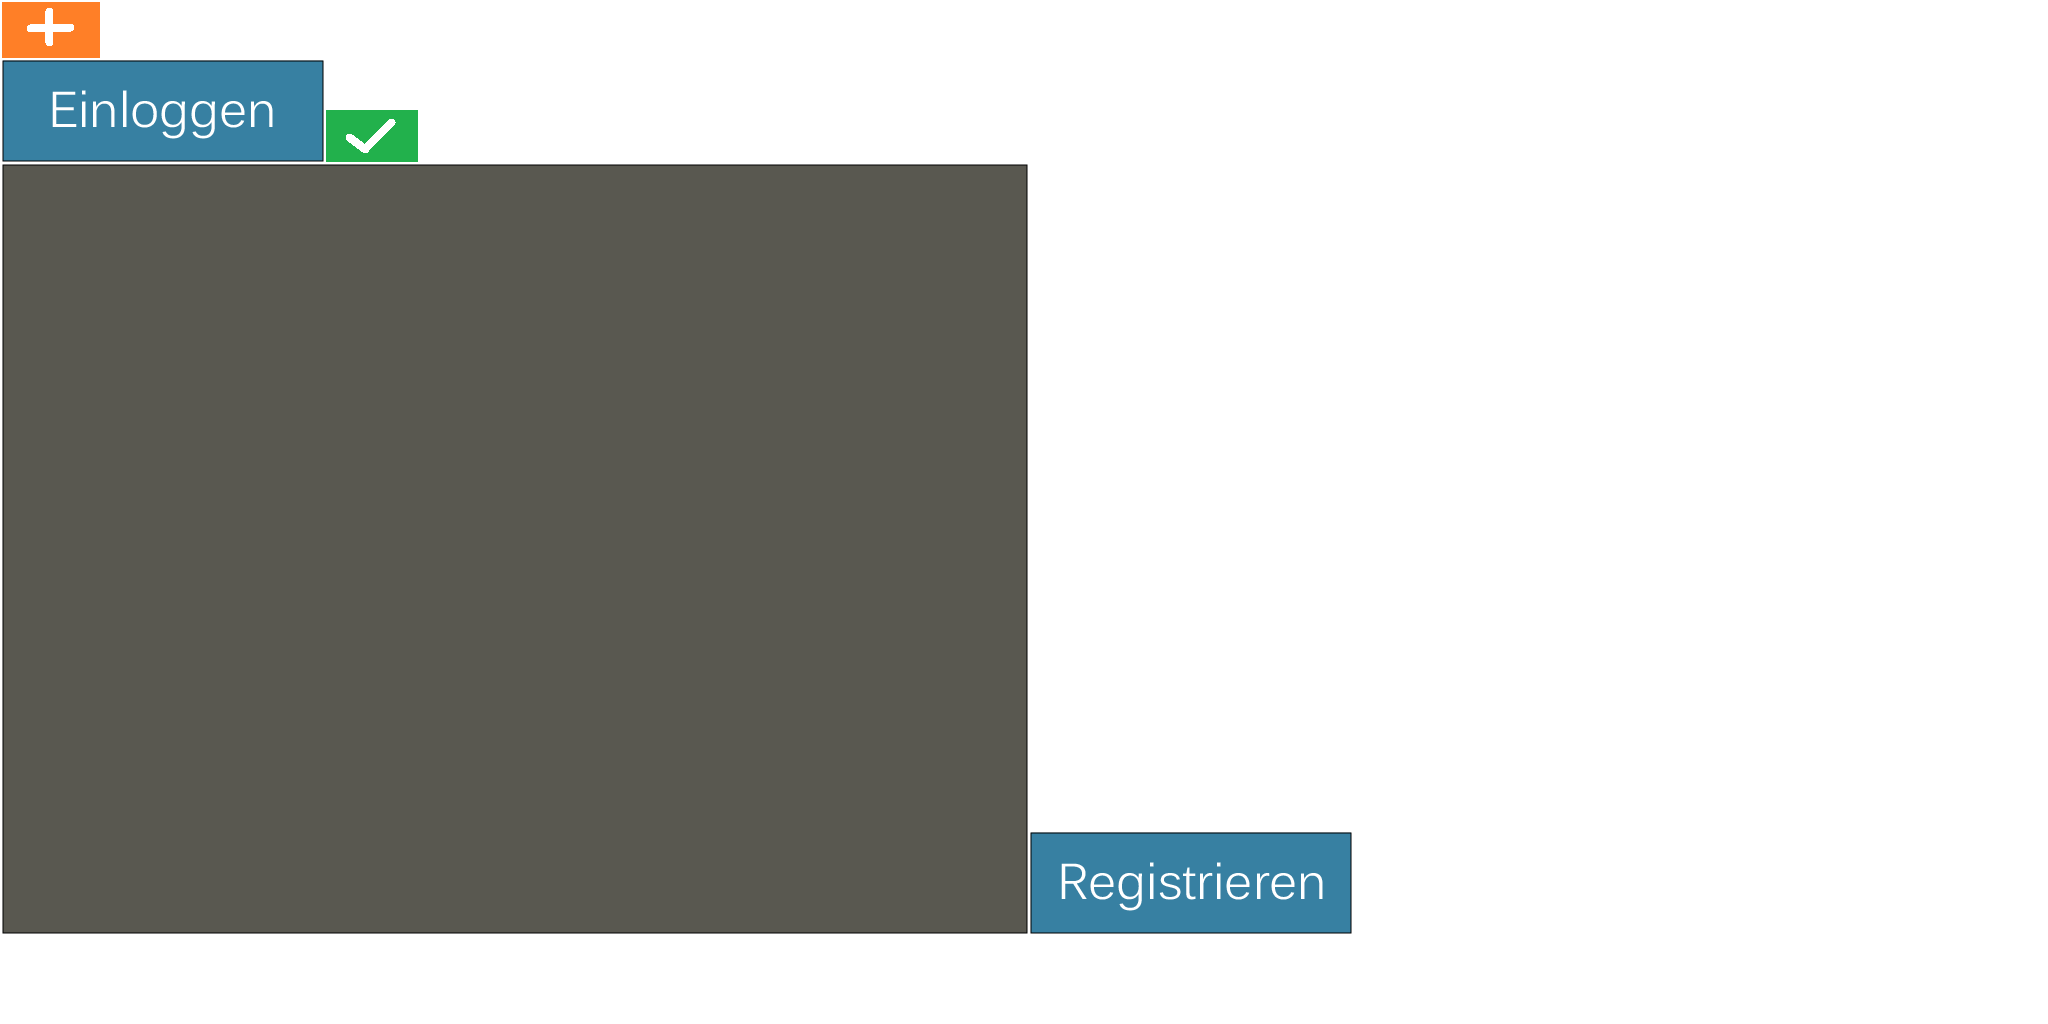
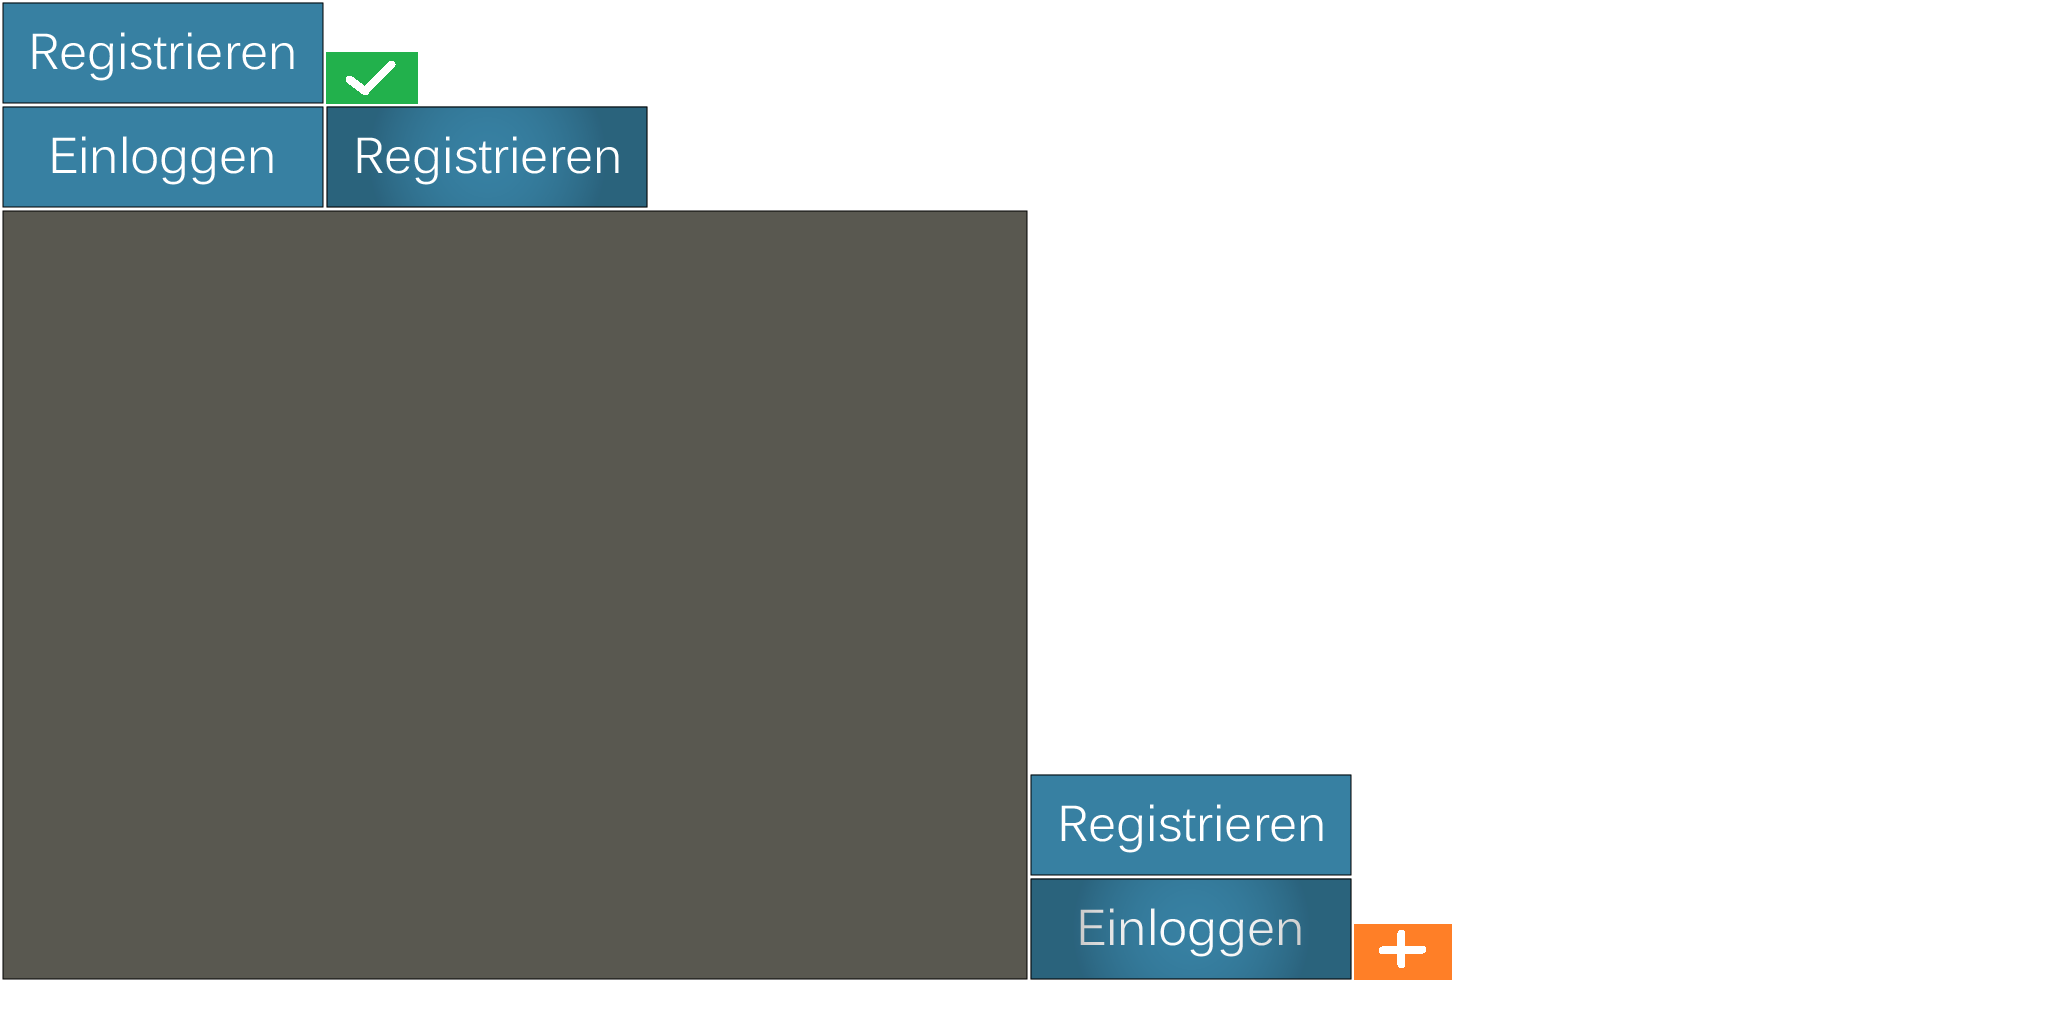
Added MenuScene (Overlap2D) Added MenuStage & load MenuScene Added Click Listener to Buttons

Changed region(s): [[0.0, 0.75, 0.7188, 0.9688], [0.0, 0.0, 0.5, 0.2188]]

diff --git a/src/Learn2Quiz/learn2quiz/core/src/main/java/de/fhkoeln/gm/eis/ss15/learn2quiz/core/MenuStage.java b/src/Learn2Quiz/learn2quiz/core/src/main/java/de/fhkoeln/gm/eis/ss15/learn2quiz/core/MenuStage.java
@@ -1,0 +1,43 @@
+package de.fhkoeln.gm.eis.ss15.learn2quiz.core;
+
+import com.badlogic.gdx.scenes.scene2d.InputEvent;
+import com.badlogic.gdx.scenes.scene2d.Stage;
+import com.badlogic.gdx.scenes.scene2d.utils.ClickListener;
+import com.uwsoft.editor.renderer.SceneLoader;
+import com.uwsoft.editor.renderer.script.SimpleButtonScript;
+
+public class MenuStage extends Stage {
+	
+	private SceneLoader sl;
+	
+    public MenuStage(final GameStage myGameStage) {
+ 
+        //Creating a scene loader and passing it a resource manager of game stage
+        this.sl = new SceneLoader(myGameStage.rm);
+ 
+        // loading UI scene
+        sl.loadScene("MenuScene");
+ 
+        // adding it's root composite item to the stage
+        addActor(sl.getRoot());
+ 
+        // Creating restart button, and adding a click listener to it
+        SimpleButtonScript btnEinloggen = SimpleButtonScript.selfInit(sl.getRoot().getCompositeById("btnEinloggen"));
+        btnEinloggen.addListener(new ClickListener() {
+            public void clicked (InputEvent event, float x, float y) {
+                //restarting game when clicked
+                //gameStage.restart();
+            	System.out.println("Click: Einloggen");
+            }
+        });
+        
+        SimpleButtonScript btnRegistrieren = SimpleButtonScript.selfInit(sl.getRoot().getCompositeById("btnRegistrieren"));
+        btnRegistrieren.addListener(new ClickListener() {
+            public void clicked (InputEvent event, float x, float y) {
+                //restarting game when clicked
+                //gameStage.restart();
+            	System.out.println("Click: Registrieren");
+            }
+        });
+    }
+}

diff --git a/src/Learn2Quiz/learn2quiz/core/src/main/java/de/fhkoeln/gm/eis/ss15/learn2quiz/core/Learn2Quiz.java b/src/Learn2Quiz/learn2quiz/core/src/main/java/de/fhkoeln/gm/eis/ss15/learn2quiz/core/Learn2Quiz.java
@@ -6,13 +6,29 @@ import com.badlogic.gdx.graphics.Texture;
 import com.badlogic.gdx.graphics.g2d.SpriteBatch;
 import com.badlogic.gdx.ApplicationListener;
 import com.badlogic.gdx.Gdx;
+import com.badlogic.gdx.InputMultiplexer;
+import com.uwsoft.editor.renderer.resources.ResourceManager;
 
 public class Learn2Quiz implements ApplicationListener {
+	
 	private GameStage myGameStage;
-
+	private MenuStage myMenuStage;
+	private ResourceManager rm;
+	private InputMultiplexer inputMultiplexer;
+	
 	@Override
 	public void create () {
-		myGameStage = new GameStage();
+		inputMultiplexer = new InputMultiplexer();
+		ResourceManager rm = new ResourceManager();
+		rm.initAllResources();
+		
+		myGameStage = new GameStage(rm);
+		myMenuStage = new MenuStage(myGameStage);
+		
+		inputMultiplexer.addProcessor(myGameStage);
+		inputMultiplexer.addProcessor(myMenuStage);
+		
+		Gdx.input.setInputProcessor(inputMultiplexer);
 	}
 
 	@Override
@@ -21,10 +37,14 @@ public class Learn2Quiz implements ApplicationListener {
 
 	@Override
 	public void render () {
-		Gdx.gl.glClearColor(0, 0, 0, 1);
+		Gdx.gl.glClearColor(0.4f, 0.4f, 0.4f, 1);
 		Gdx.gl.glClear(GL30.GL_COLOR_BUFFER_BIT);
 		
+		myGameStage.act();
 		myGameStage.draw();
+		
+		myMenuStage.act();
+		myMenuStage.draw();
 	}
 
 	@Override

diff --git a/src/Learn2Quiz/learn2quiz/core/src/main/java/de/fhkoeln/gm/eis/ss15/learn2quiz/core/GameStage.java b/src/Learn2Quiz/learn2quiz/core/src/main/java/de/fhkoeln/gm/eis/ss15/learn2quiz/core/GameStage.java
@@ -1,12 +1,18 @@
 package de.fhkoeln.gm.eis.ss15.learn2quiz.core;
 
 import com.badlogic.gdx.scenes.scene2d.Stage;
+import com.uwsoft.editor.renderer.Overlap2DStage;
 import com.uwsoft.editor.renderer.SceneLoader;
+import com.uwsoft.editor.renderer.resources.ResourceManager;
 
-public class GameStage extends Stage {
+public class GameStage extends Overlap2DStage {
 	
-	public GameStage(){
-		SceneLoader sl = new SceneLoader();
+	public ResourceManager rm;
+	private SceneLoader sl;
+	
+	public GameStage(ResourceManager rm){
+		this.rm = rm;
+		this.sl = new SceneLoader(this.rm);
 		sl.loadScene("MainScene");
 		this.addActor(sl.getRoot());
 	}
